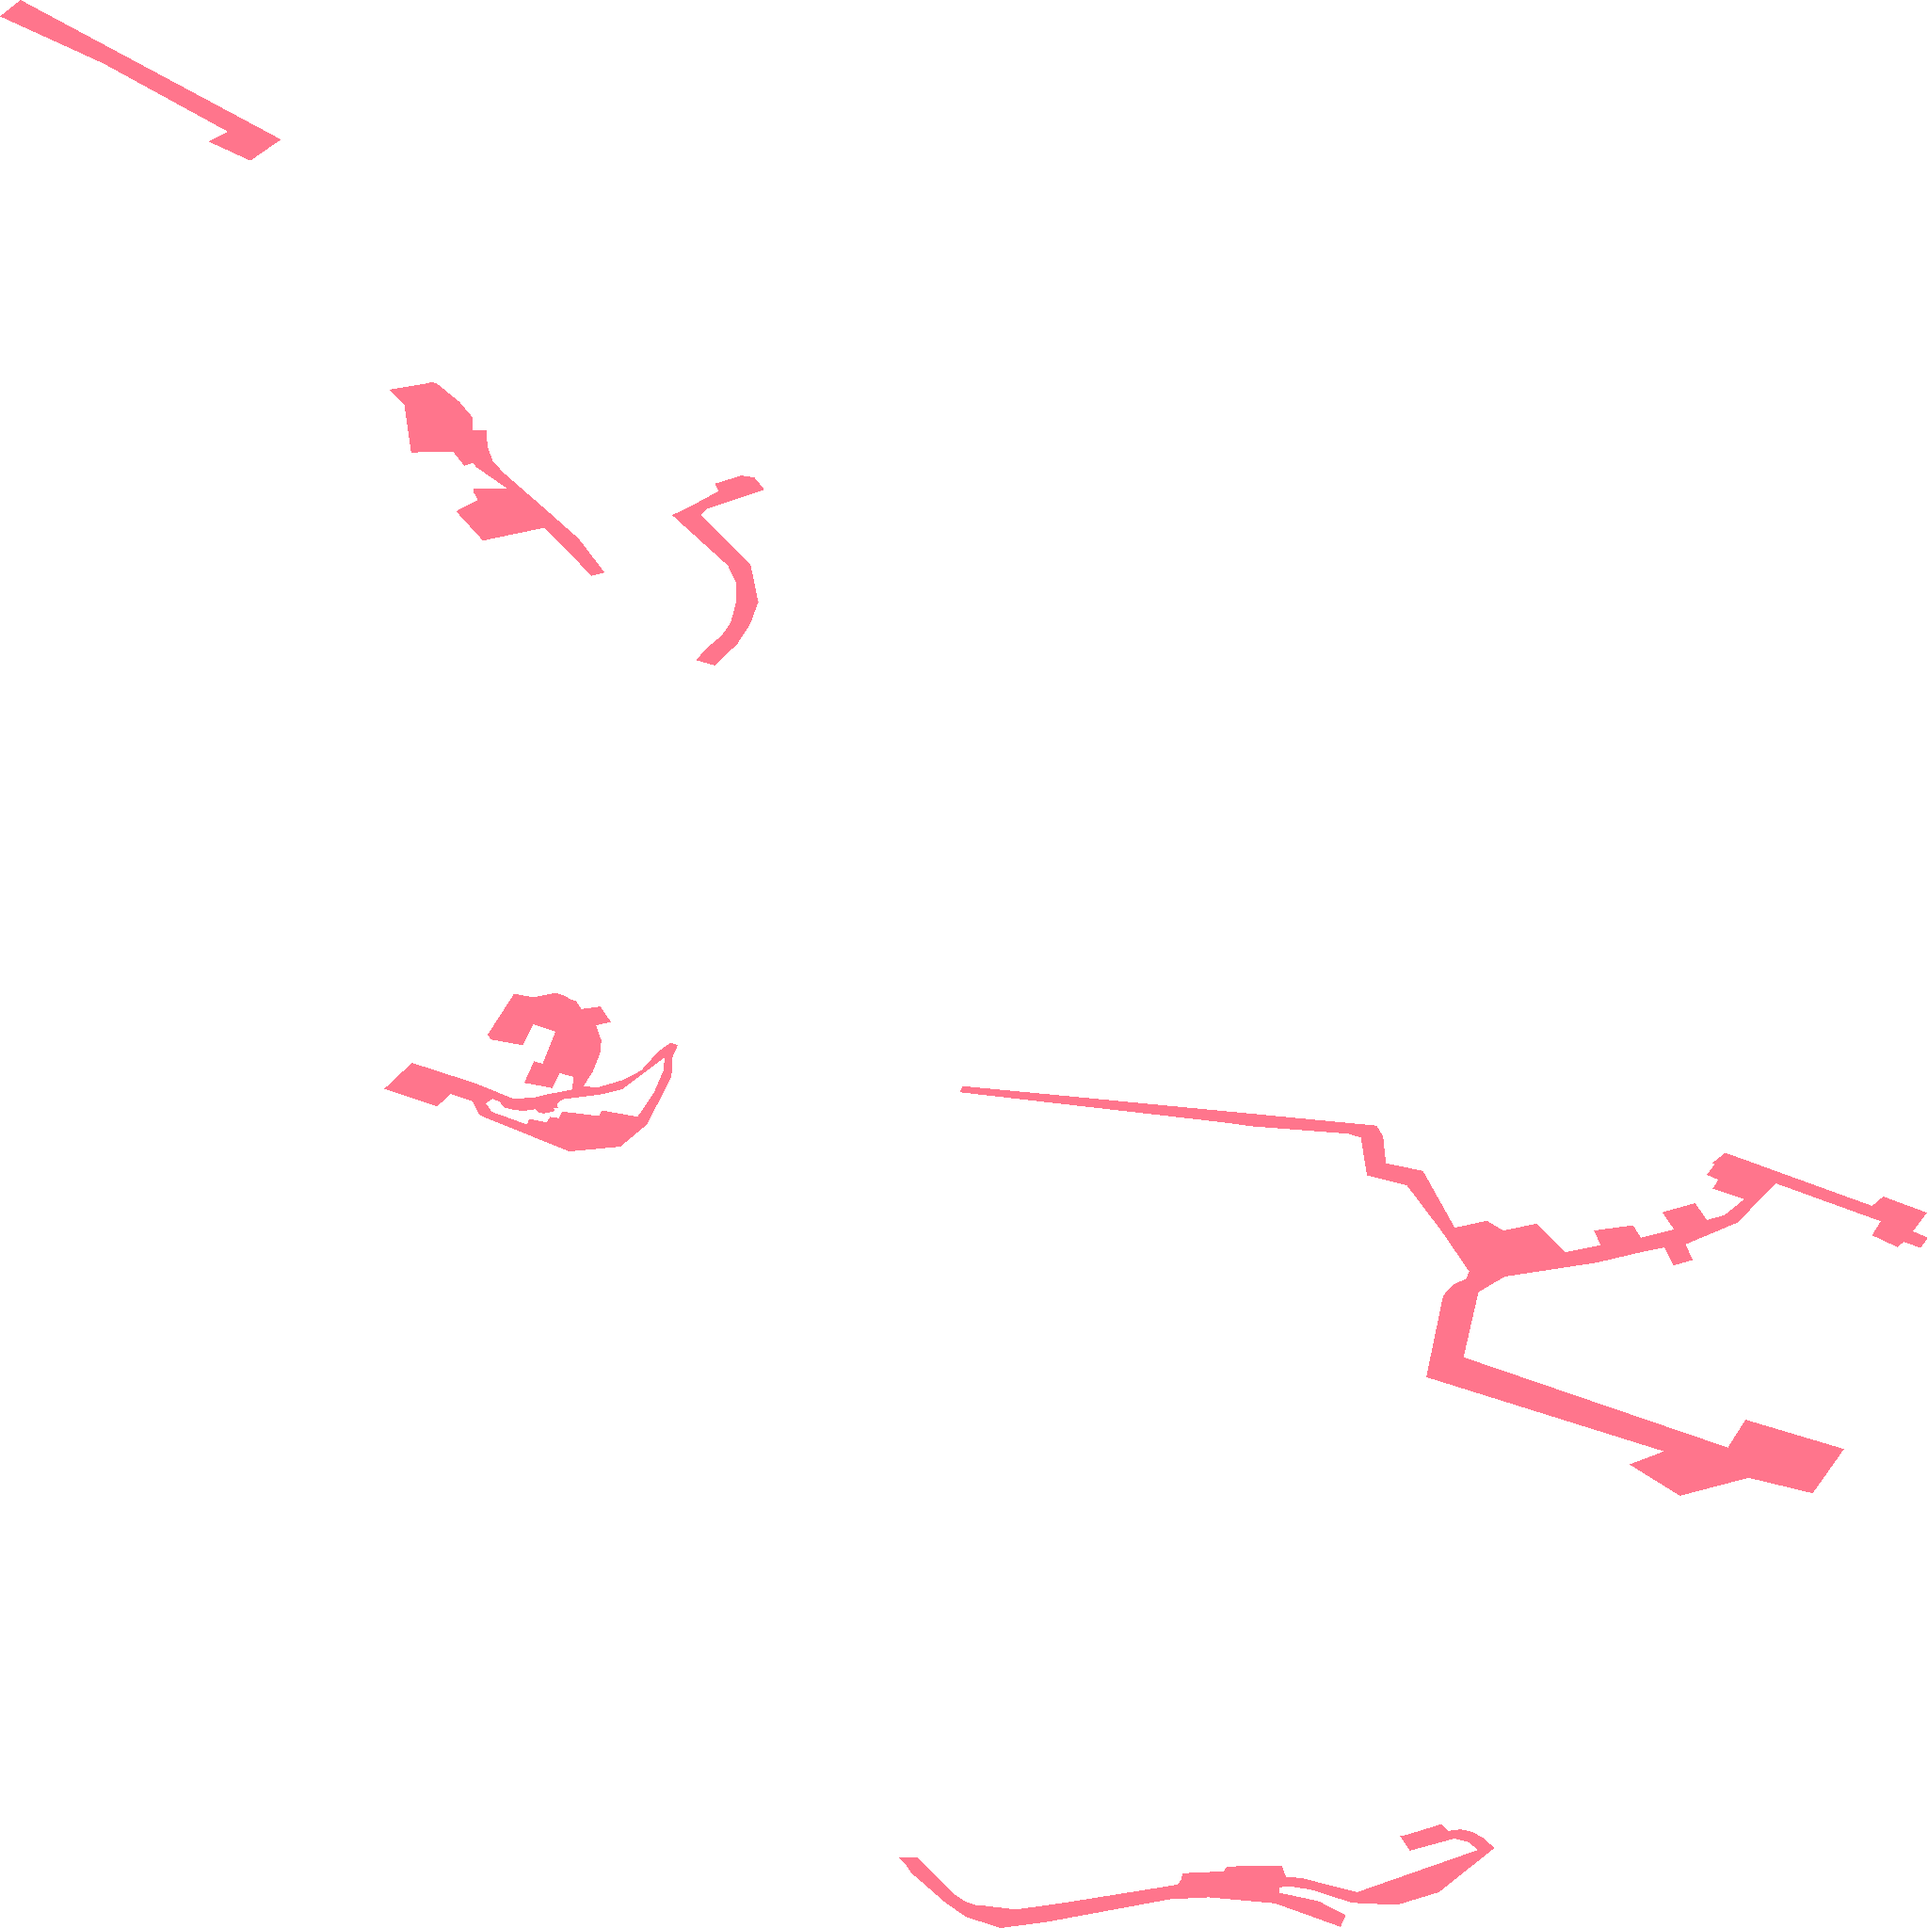
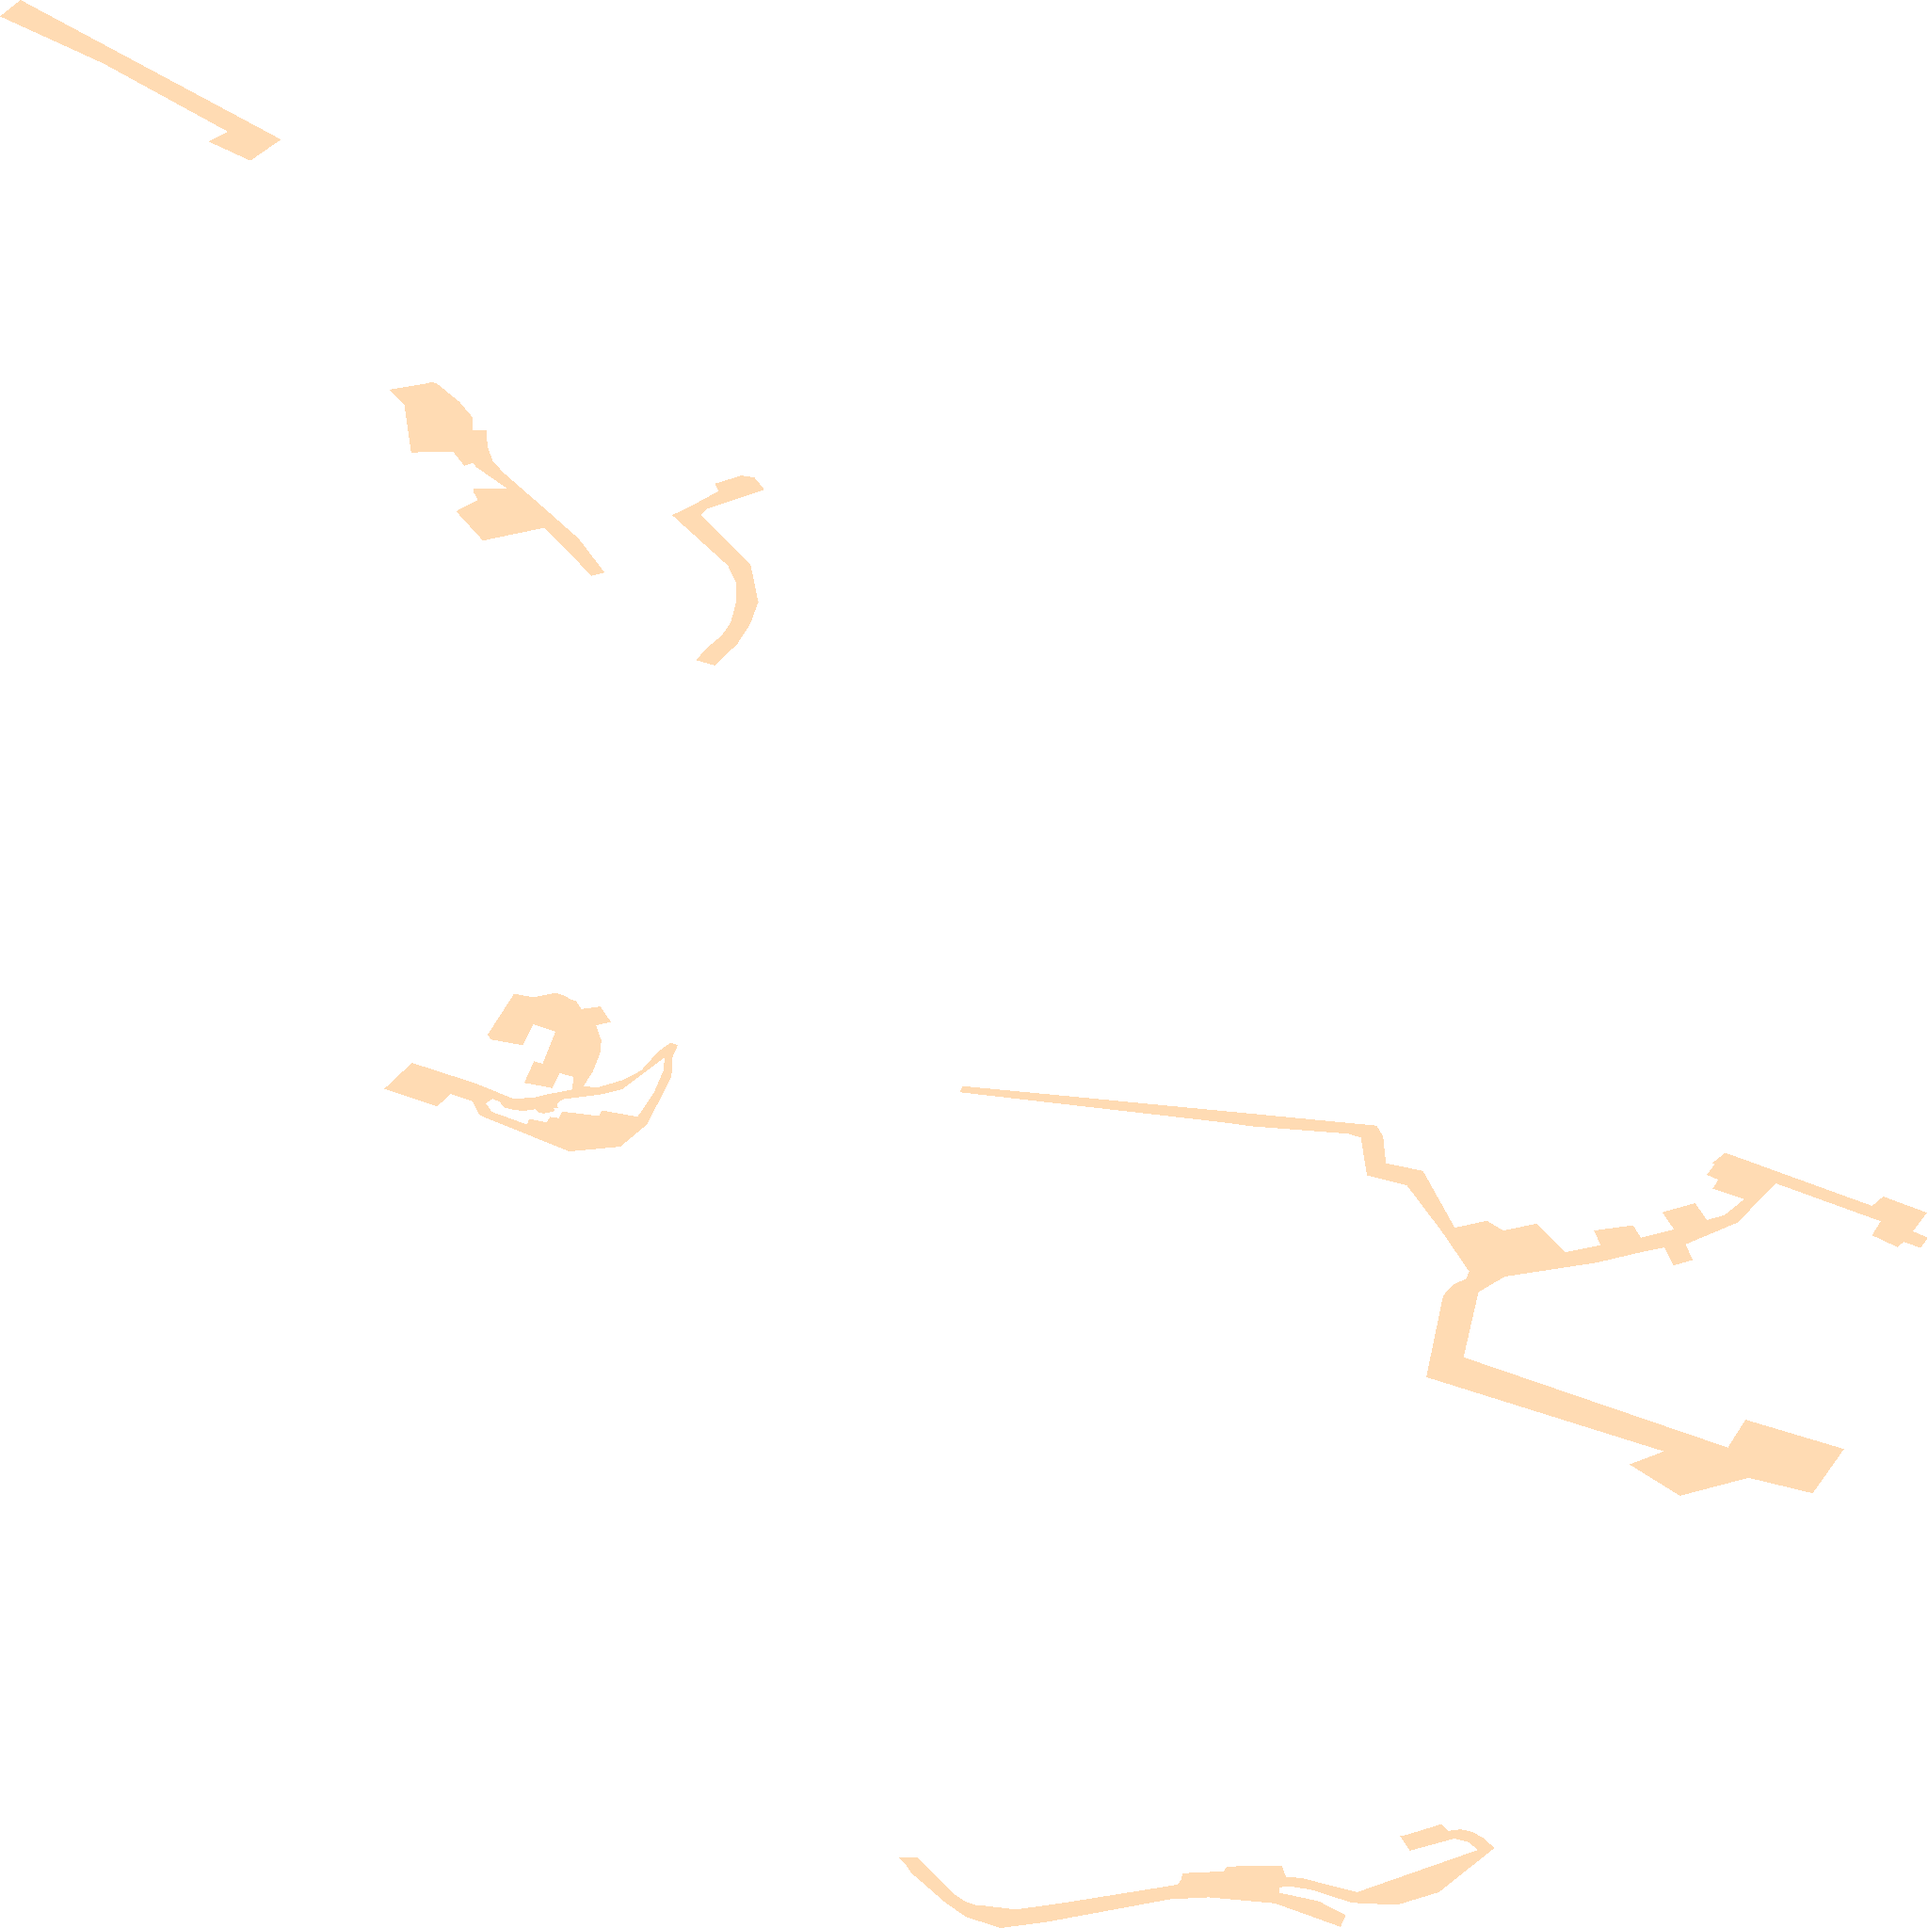
Karte sp_682

diff --git a/sp_682.html b/sp_682.html
@@ -60,7 +60,7 @@
         }
         .custom-control2 {
             position: absolute;
-            bottom: -320px;
+            top: 110px;
             left: 0px;
             background: white;
             padding: 5px;
@@ -77,24 +77,6 @@
         .custom-control:hover, .custom-control2:hover {
             background-color: #f0f0f0 !important;
         }
-        .leaflet-control-geocoder-icon {
-            background-color: white !important;
-            color: grey !important;
-            border: none !important;
-            width: 20px;
-            height: 20px;
-            display: flex;
-            justify-content: center;
-            align-items: center;
-            font-size: 15px;
-            font-family: 'Montserrat', sans-serif;
-            box-shadow: 0 1px 3px rgba(0, 0, 0, 0.3);
-            border-radius: 2px;
-            cursor: pointer;
-        }
-        .leaflet-control-geocoder-icon:hover {
-            background-color: #f0f0f0 !important;
-        }
         .custom-marker {
             width: 15px;
             height: 15px;
@@ -104,8 +86,8 @@
         }
         #legend {
             position: absolute;
-            bottom: 80px;
-            left: 55px;
+            top: 160px;
+            left: 10px;
             display: none;
             z-index: 1000;
             background: white;
@@ -128,8 +110,9 @@
 <body>
     <div id="map"></div>
     <div id="legend">
-        <div><span style="display:inline-block; width:20px; height:10px; background:#FF7F00; margin-right:5px;"></span>Ausbauphase 1: Ausbau bei ausreichender Nachfrage</div>
+        <div><span style="display:inline-block; width:20px; height:10px; background:#FF7F00; margin-right:5px;"></span>Ausbauphase 1: Glasfasernetz vorhanden oder geplant</div>
         <div><span style="display:inline-block;width:20px; height:10px; background:#00143C; margin-right:5px;"></span>Ausbauphase 2: Interessenbekundung möglich</div>
+        <div><span style="display:inline-block;width:20px; height:10px; background:#FFC17D; margin-right:5px;"></span>Ausbauphase 3: Gefördertes Ausbaugebiet </div>
     </div>
     <script>
     const bounds = [[50.518952921, 8.246278598], [50.556346785, 8.282344446]];
@@ -166,20 +149,6 @@
         });
         map.addControl(new legendControl());
         const markerLayerGroup = L.layerGroup().addTo(map);
-        const geocoder = L.Control.geocoder({
-            defaultMarkGeocode: false
-        })
-            .on('markgeocode', function (e) {
-                markerLayerGroup.clearLayers();
-                const latlng = e.geocode.center;
-                const customMarker = L.divIcon({
-                    className: 'custom-marker'
-                });
-                const marker = L.marker(latlng, { icon: customMarker });
-                markerLayerGroup.addLayer(marker);
-                map.fitBounds(bounds);
-            })
-            .addTo(map);
     </script>
 </body>
 </html>
